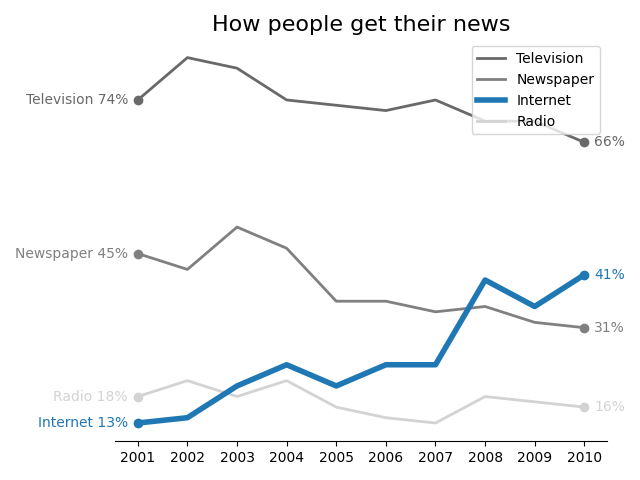
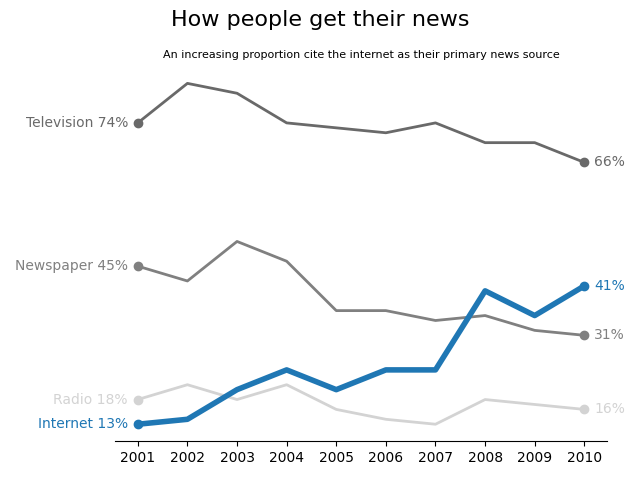
Correction and description

diff --git a/homework/pregunta_01.py b/homework/pregunta_01.py
@@ -49,7 +49,8 @@ def pregunta_01():
         plt.plot(df[col], color=colors[col], label=col,
                  zorder=zorder[col], linewidth=linewidth[col])
 
-    plt.title("How people get their news", fontsize=16)
+    plt.suptitle("How people get their news", fontsize=16)
+    plt.title('An increasing proportion cite the internet as their primary news source', fontsize=8)
 
     plt.gca().spines['top'].set_visible(False)
     plt.gca().spines['right'].set_visible(False)
@@ -71,7 +72,7 @@ def pregunta_01():
         plt.text(last_year + 0.2, df[col].loc[last_year], str(
             df[col].loc[last_year]) + "%", ha='left', va='center', color=colors[col])
 
-    plt.legend(loc='upper right')
+
     plt.show()
 
     plt.xticks(ticks=df.index, labels=df.index, ha='center')
